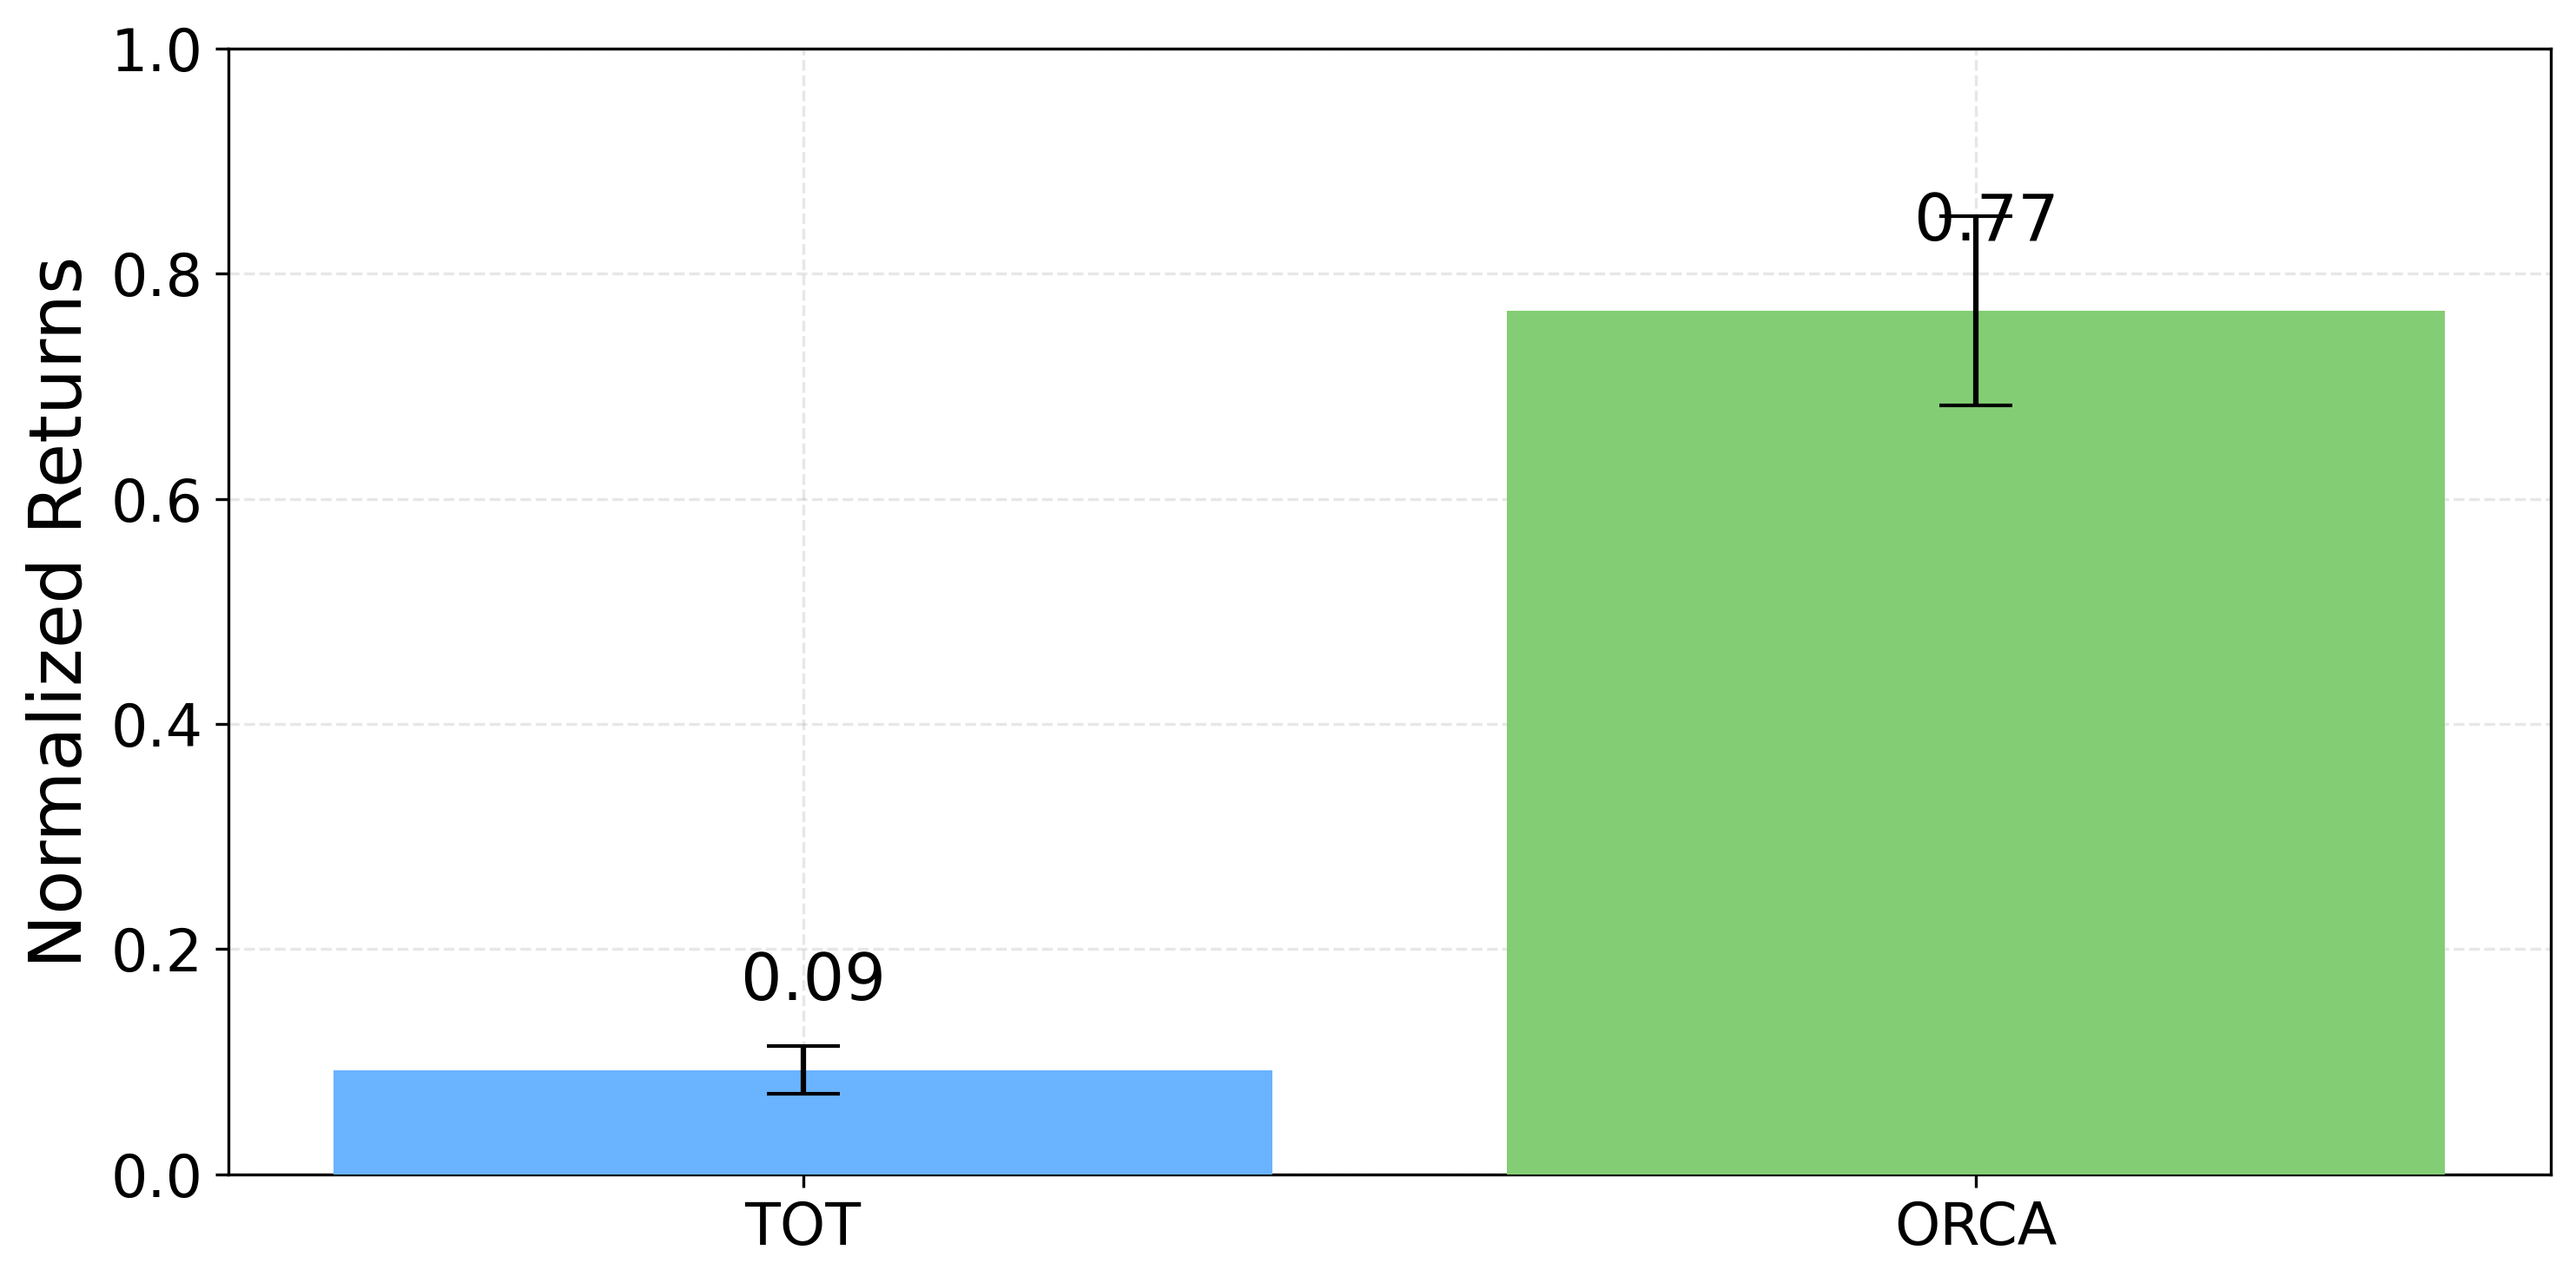
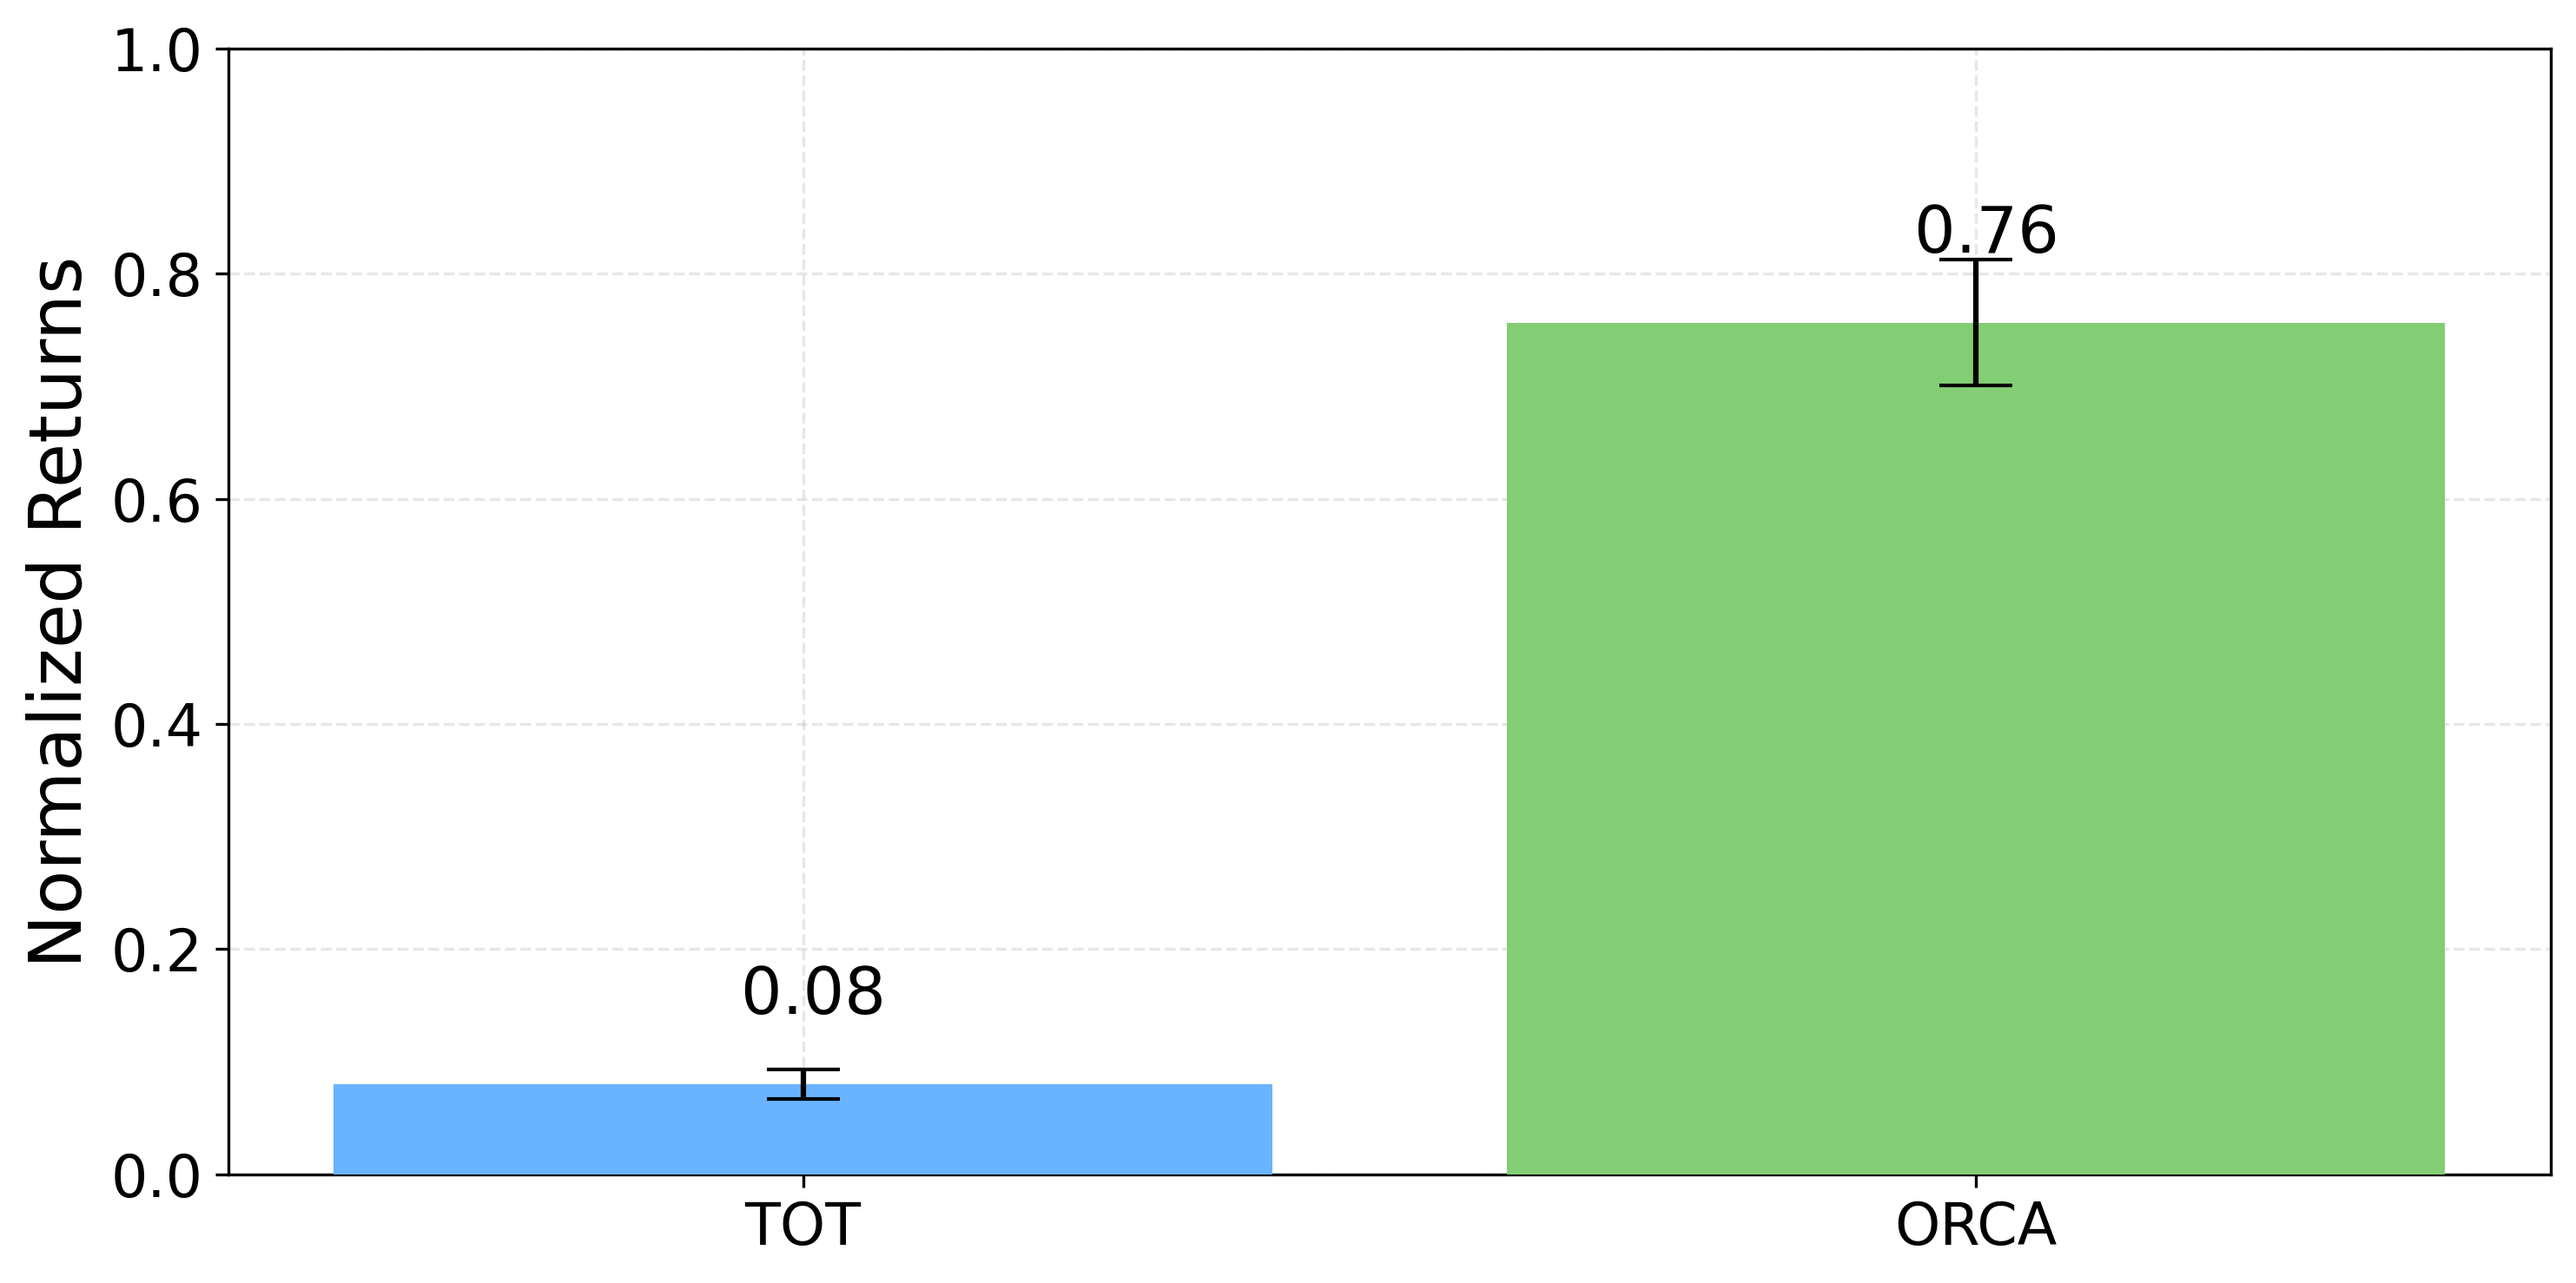
update to compute time

Changed region(s): [[0.1241, 0.747, 0.4963, 0.8714], [0.5893, 0.1556, 0.9616, 0.249]]

diff --git a/speed_profile.py b/speed_profile.py
@@ -30,12 +30,12 @@ def write_method_compute_times_to_csv(method_compute_times, filename="method_com
         Name of the CSV file to write to (default: "method_compute_times.csv")
     """
     with open(filename, 'w', newline='') as csvfile:
-        fieldnames = ['method', 'compute_time']
+        fieldnames = ['method', 'compute_time_ms']
         writer = csv.DictWriter(csvfile, fieldnames=fieldnames)
         
         writer.writeheader()
         for method, compute_time in method_compute_times.items():
-            writer.writerow({'method': method, 'compute_time': compute_time})
+            writer.writerow({'method': method, 'compute_time_ms': compute_time})
     
     print(f"Results written to {filename}")
 
@@ -96,10 +96,10 @@ class DistanceMatrixRewarder:
         return rewards
 
 def main():
-    demo = np.random.randint(0, 255, size=(63, 3, 224, 224))
+    demo = np.random.randint(0, 255, size=(100, 3, 224, 224))
     device = 'cuda'
     n_rollouts = 100
-    rollout_len = 300
+    rollout_len = 100
     methods = ["threshold", "liv_text",  "ot", "temporal_ot", "dtw", "coverage"]
 
     warmup_gpu()
@@ -129,9 +129,9 @@ def main():
             compute_time = time.time() - time_start
             times.append(compute_time)
 
-        avg_latency = np.mean(times)
+        avg_latency = np.mean(times) * 1000 # store ms
         method_compute_times[method] = avg_latency
-        print(f"Average latency for {method}: {avg_latency*1000} ms")
+        print(f"Average latency for {method}: {avg_latency} ms")
 
     write_method_compute_times_to_csv(method_compute_times)
 

diff --git a/main.py b/main.py
@@ -150,7 +150,9 @@ def run(cfg, wandb_run=None):
                         use_encoder=use_encoder)
     
     if cfg.use_ckpt:
-        if cfg.mismatched and not cfg.random_mismatched:
+        if cfg.cost_encoder != "resnet":
+            checkpoint_json_path = f"./utils/temporalot_checkpoint_path_{cfg.cost_encoder}_encoder.json"
+        elif cfg.mismatched and not cfg.random_mismatched:
             exp_type = "mismatched"
             checkpoint_json_path = f"./utils/temporalot_checkpoint_path_{exp_type}_{cfg.obs_type}.json"
         elif not cfg.mismatched and not cfg.random_mismatched:
